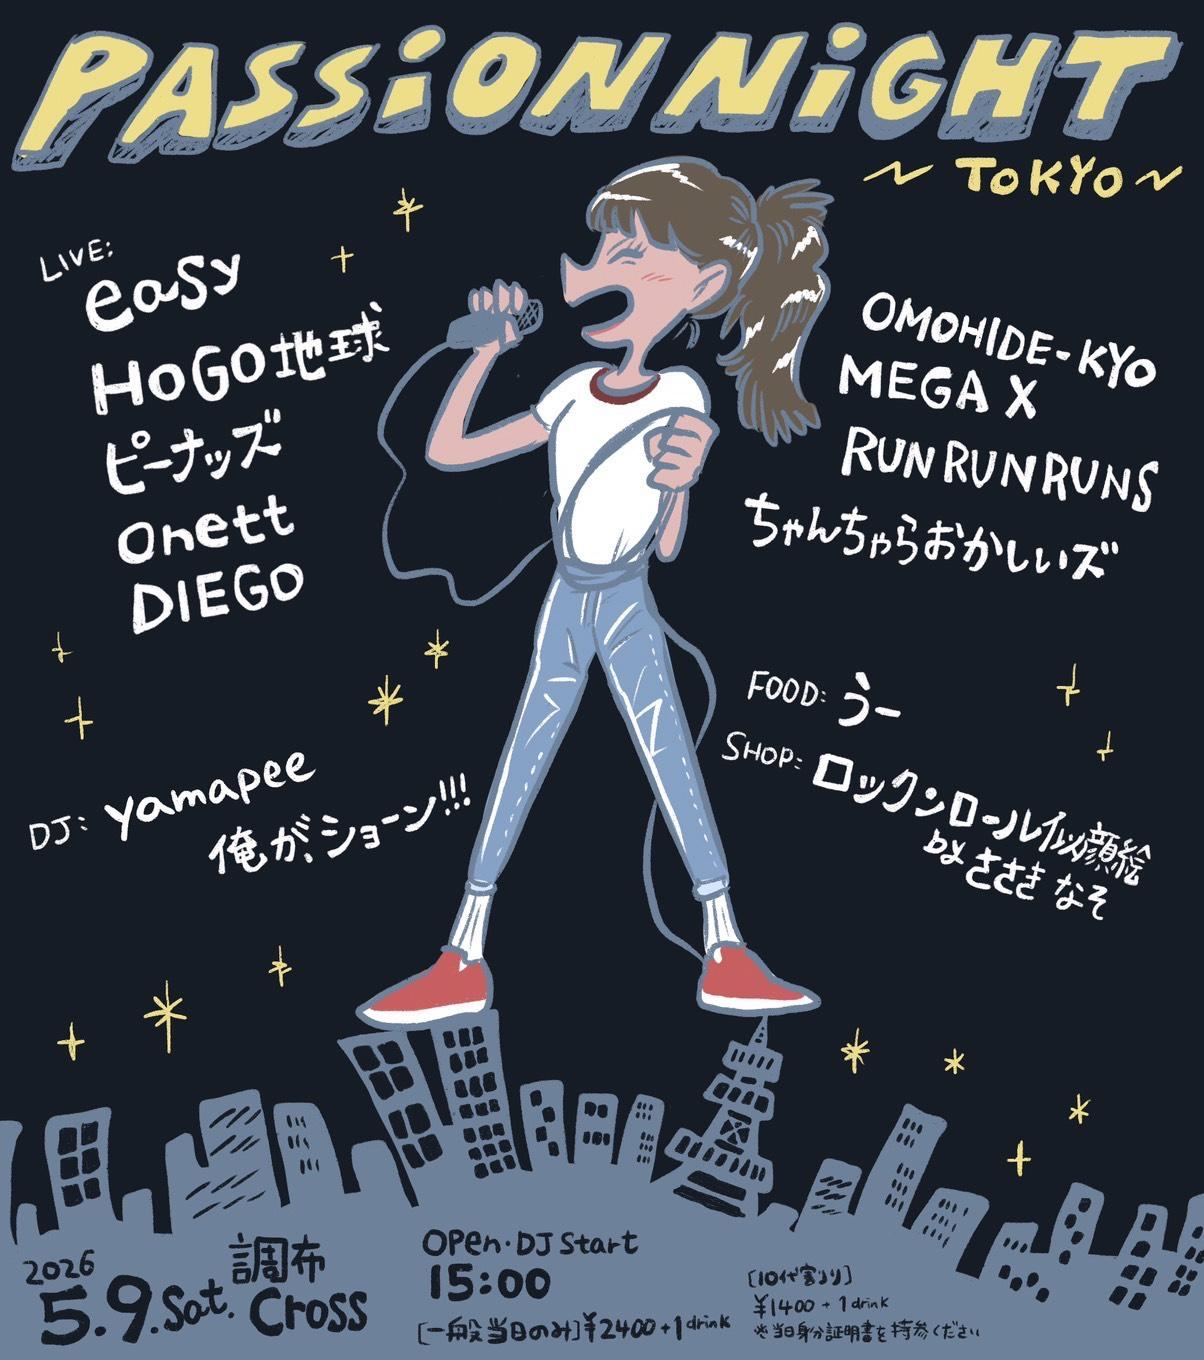
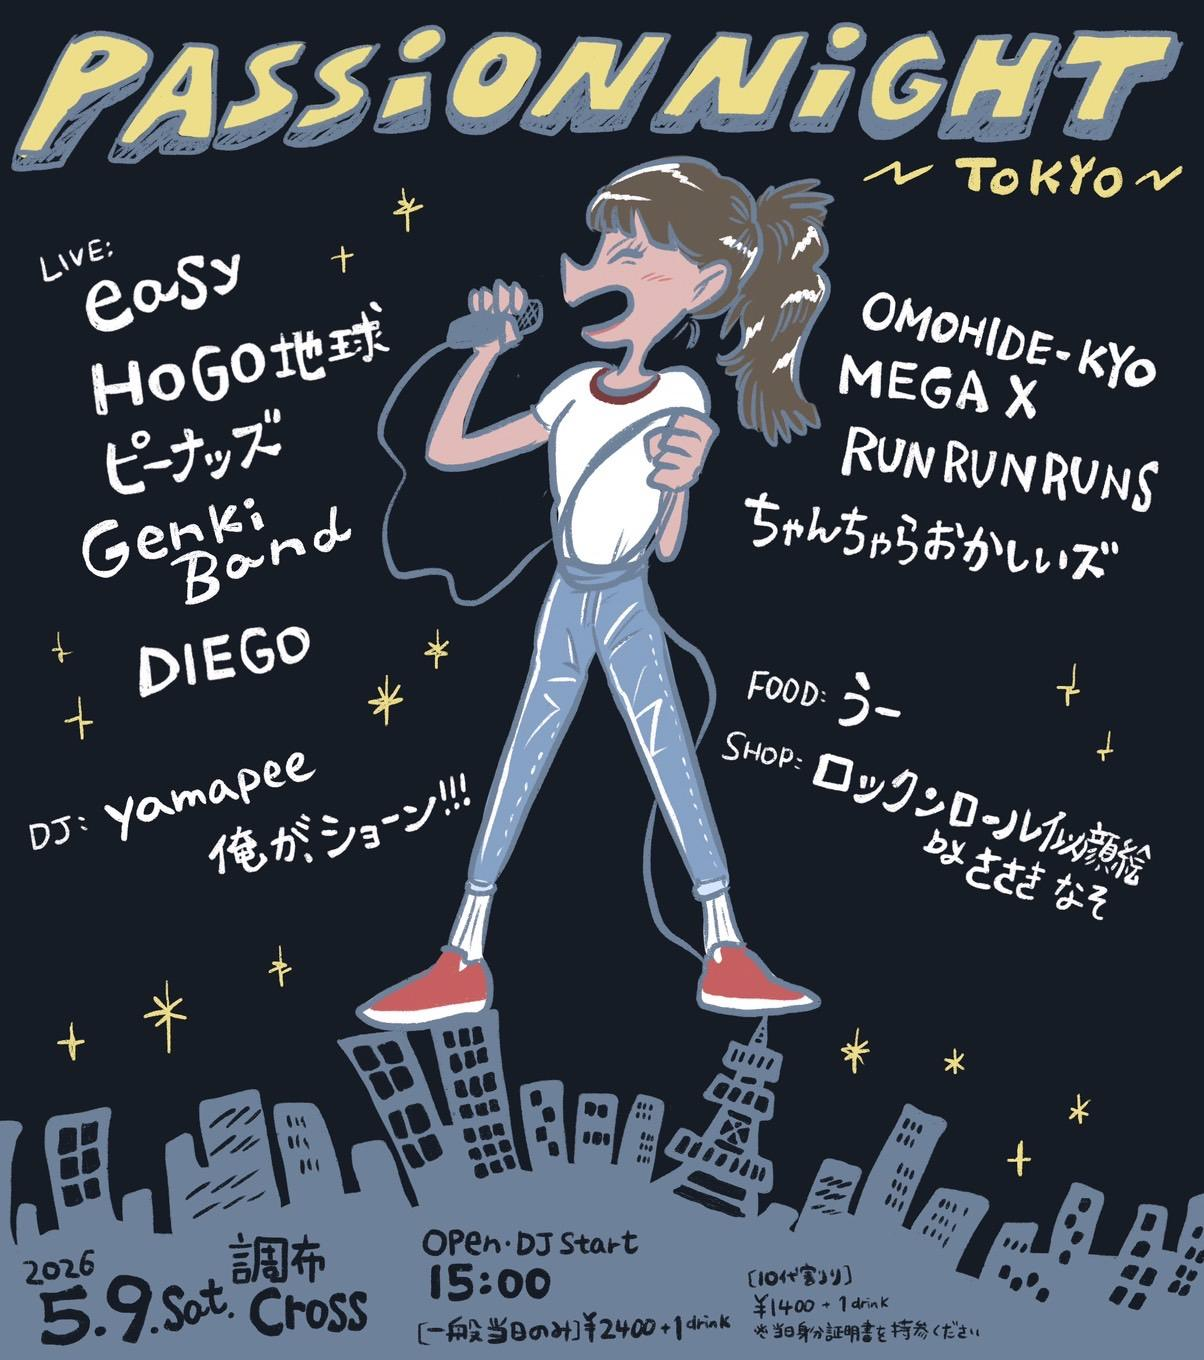
ライブ上方修正

Changed region(s): [[0.0615, 0.3706, 0.3073, 0.525]]

diff --git a/index.html b/index.html
@@ -5,8 +5,7 @@
   <meta charset="UTF-8">
   <meta name="viewport" content="width=device-width, initial-scale=1.0">
   <meta name="description" content="ピーナッズ（PEANUTZ）オフィシャルサイト。プロフィール、ライブ情報、ディスコグラフィー、グッズ、SNSリンクを掲載中。">
-  <meta name="google-site-verification" content="HDPsCNCHBe6QCQobFseq0gAJ0mNy3fwJP21cD7uNkyo">
-  <title>ピーナッズオフィシャルサイト</title>
+  <title>ピーナッズ（PEANUTZ）公式サイト｜ライブ・音源・グッズ情報</title>
   <link rel="stylesheet" href="style.css">
 </head>
 

diff --git a/live.html b/live.html
@@ -33,7 +33,7 @@
                     <ul>
                         <li>easy</li>
                         <li>HOGO地球</li>
-                        <li>onett</li>
+                        <li>Genki band</li>
                         <li>ピーナッズ</li>
                         <li>DIEGO</li>
                         <li>OMOHIDE-KYO</li>
